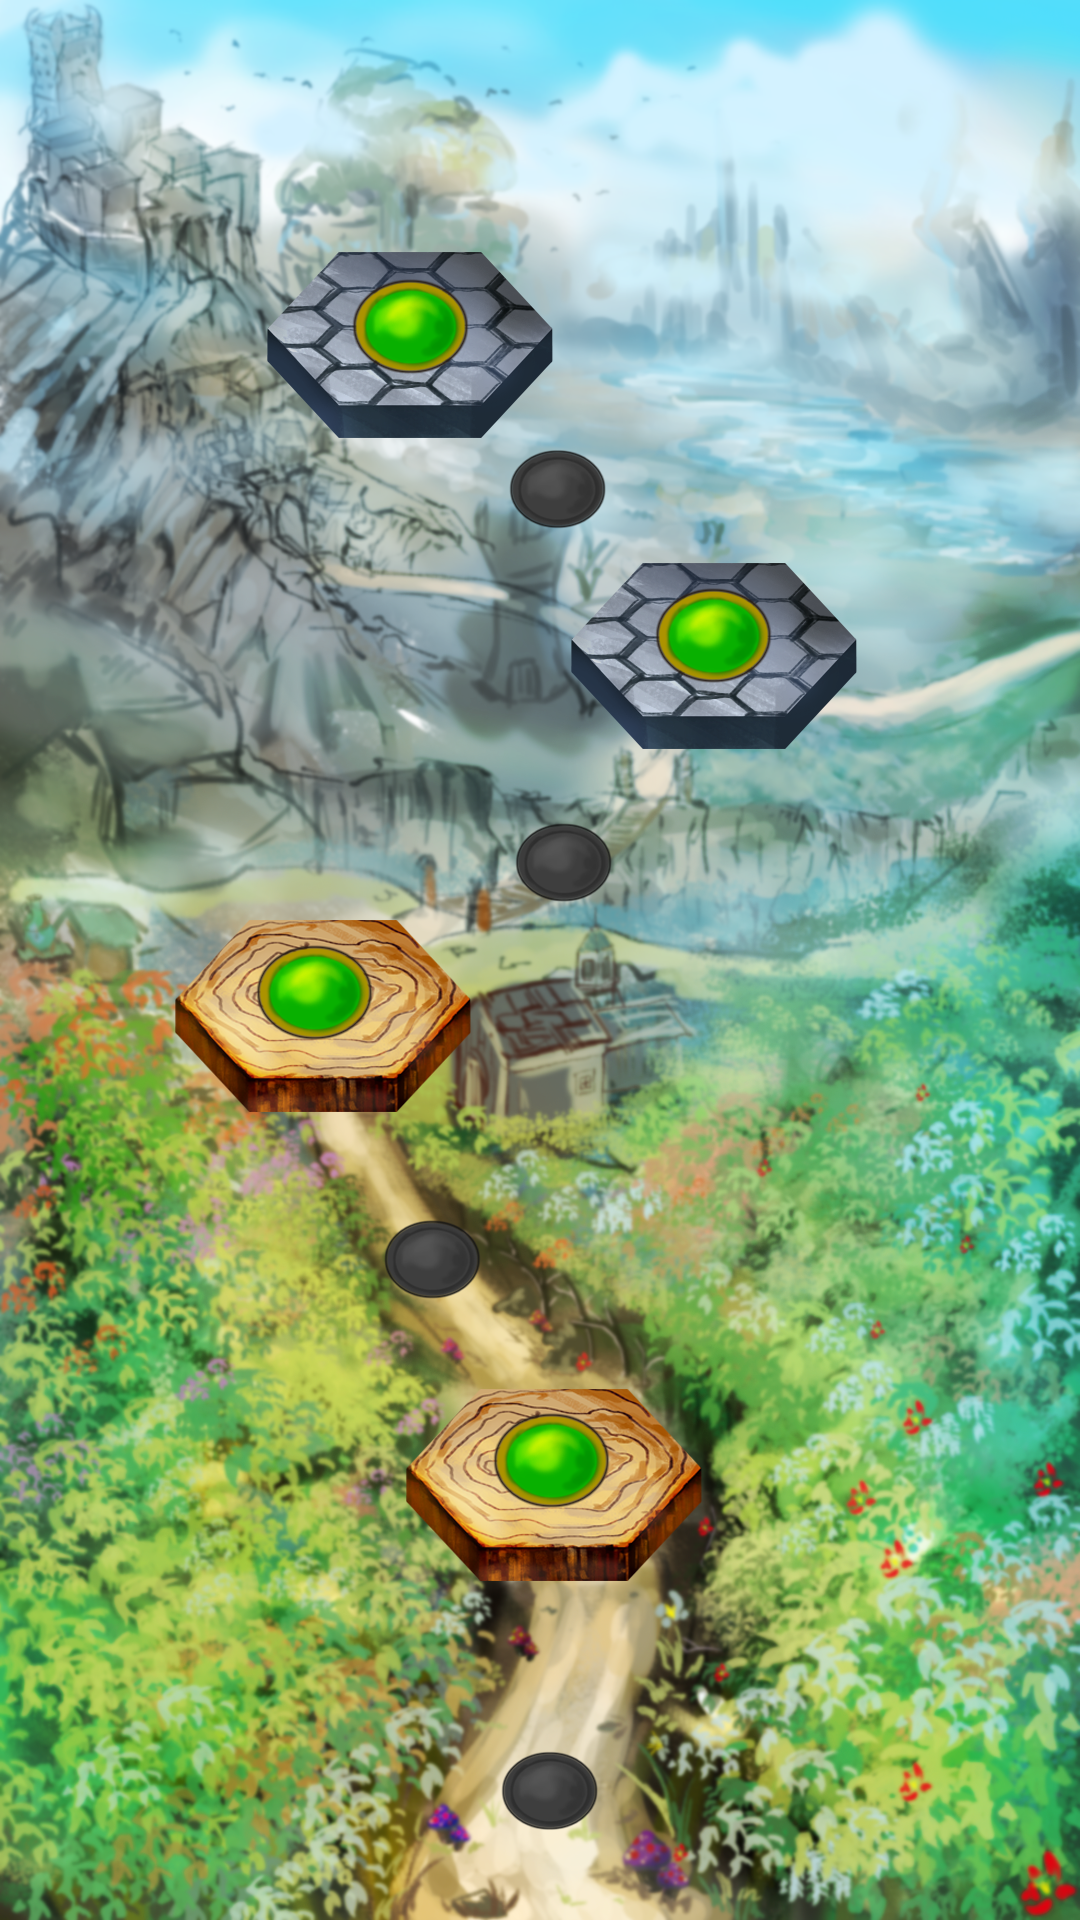
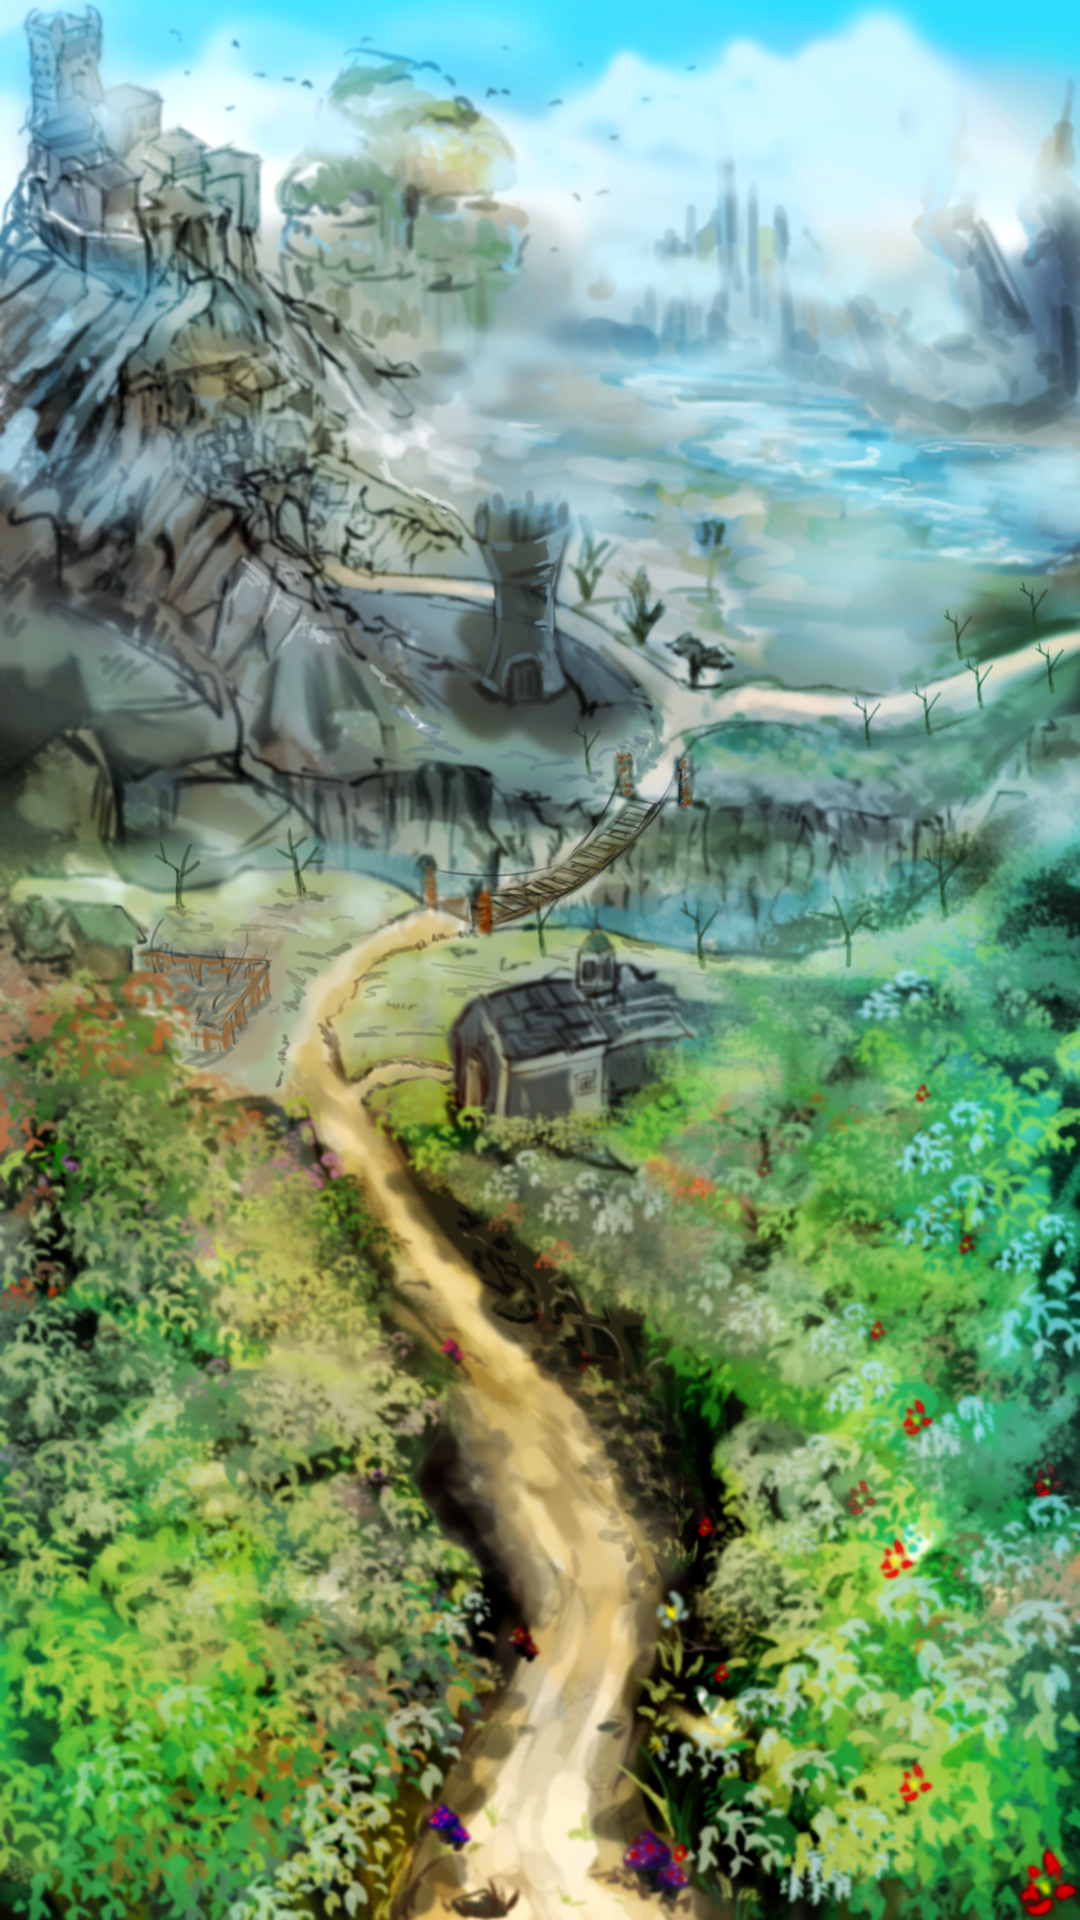
Update stage select images

diff --git a/Assets/Scripts/StageSelect/StageButton.cs b/Assets/Scripts/StageSelect/StageButton.cs
@@ -19,12 +19,12 @@ public class StageButton : MonoBehaviour
         }
         else if (stage < lastClearedStage)
         {
-            stageImage.sprite = Flags[0];
+            stageImage.sprite = Flags[1];
             GetComponent<Button>().interactable = true;
         }
         else
         {
-            stageImage.sprite = null;
+            stageImage.sprite = Flags[0];
             GetComponent<Button>().interactable = false;
         }
     }
